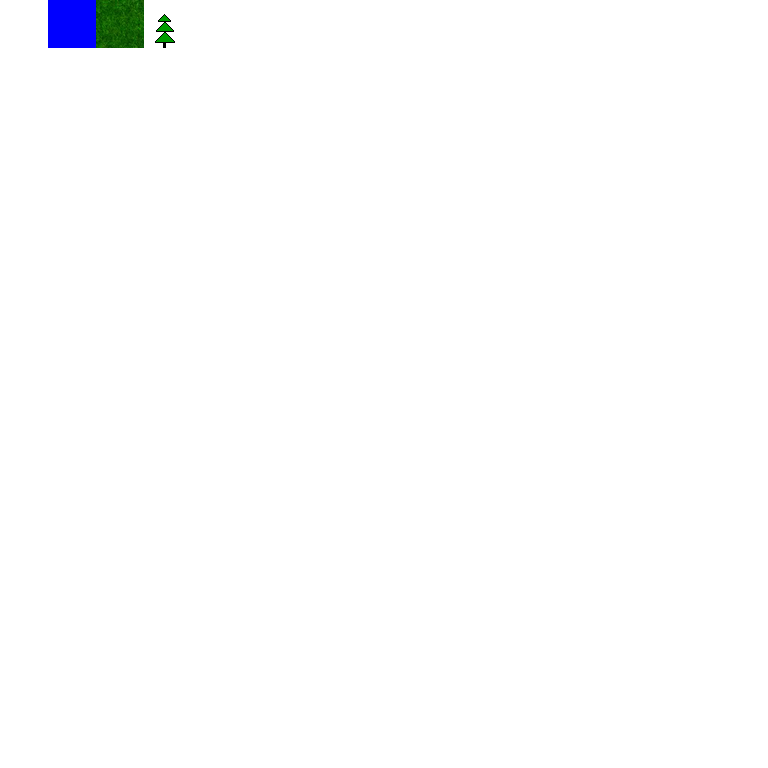
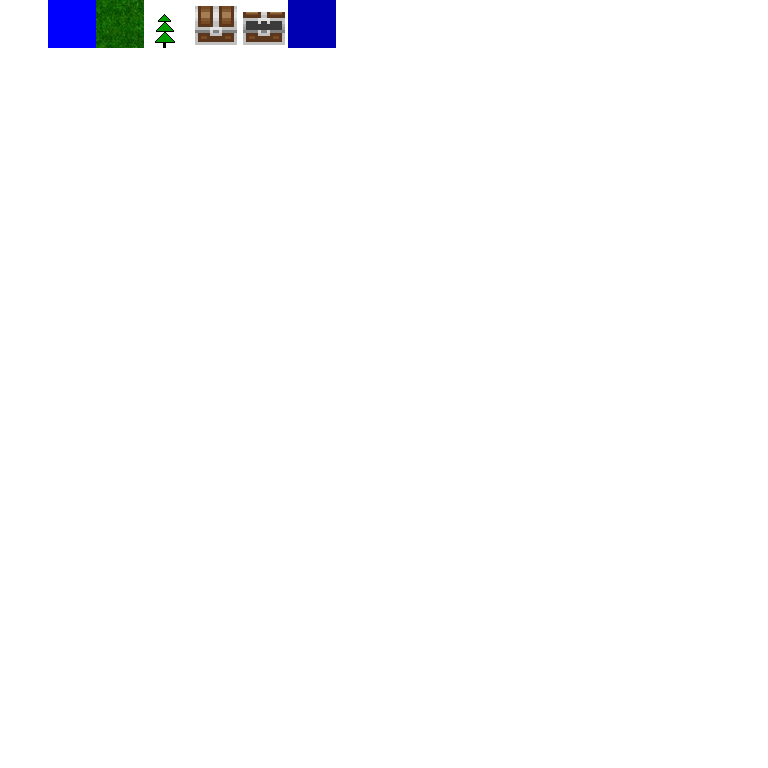
Began work on chests

Changed region(s): [[0.25, 0.0, 0.4375, 0.0625]]

diff --git a/todd/SceneView.cpp b/todd/SceneView.cpp
@@ -10,6 +10,7 @@
 #include <iostream>
 #include "GameState.h"
 #include "GameMenu.h"
+#include "ActiveTile.h"
 
 using namespace std;
 
@@ -19,18 +20,13 @@ struct TileMapping
 {
 	int id;
 	int spriteIndex;
-
-	/**
-	 * The "second" sprite index, if the tile is animated.
-	 */
-	int secondSpriteIndex;
 };
 
 TileMapping tileMappings[] = {
-	{1, 1, 1},			// Grass
-	{2, 2, 2},			// ??? (don't know yet)
-	{3, 3, 3},			// Tree (use in hard layer)
-
+	{1, 1},				// Grass
+	{2, 2},				// ??? (don't know yet)
+	{3, 3},				// Tree (use in hard layer)
+	{4, 0},				// Chest (active tile)
 	// END
 	{0, 0}
 };
@@ -51,15 +47,25 @@ void SceneView::renderLayer(Scene::Tile *layer)
 			if (tile.id == 0) continue;
 			int spriteIndex = 0;
 
-			while (scan->id != 0)
+			ActiveTile *atile = GetActiveTile(tile.id);
+			if (atile != NULL)
 			{
-				if (scan->id == tile.id)
-				{
-					spriteIndex = scan->spriteIndex;
-					break;
-				};
+				void *state = GetTileState(sceneID, x, y, atile);
+				spriteIndex = atile->getTileIndex(state);
+			};
 
-				scan++;
+			if (spriteIndex == 0)
+			{
+				while (scan->id != 0)
+				{
+					if (scan->id == tile.id)
+					{
+						spriteIndex = scan->spriteIndex;
+						break;
+					};
+
+					scan++;
+				};
 			};
 
 			ssTiles->draw(x*48, y*48, spriteIndex);
@@ -125,6 +131,16 @@ void SceneView::handleEvent(SDL_Event *ev)
 				MobState *mob = (MobState*) GetGameData(name, sizeof(MobState));
 				mob->orient = opposite;
 				InteractWithMob(name);
+			}
+			else
+			{
+				int id = scene->hardLayer[(state->y+relY) * scene->width + (state->x+relX)].id;
+				ActiveTile *tile = GetActiveTile(id);
+				if (tile != NULL)
+				{
+					void *tstate = GetTileState(sceneID, state->x+relX, state->y+relY, tile);
+					tile->interact(tstate);
+				};
 			};
 		}
 		else if (ev->key.keysym.sym == SDLK_ESCAPE)

diff --git a/todd/ActiveTile.h b/todd/ActiveTile.h
@@ -1,0 +1,45 @@
+/**
+ * ActiveTile.h
+ * Handles 'active tiles', such as chests.
+ */
+
+#ifndef ACTIVE_TILE_H
+#define ACTIVE_TILE_H
+
+#include <stdlib.h>
+#include <string>
+
+using namespace std;
+
+struct ChestState
+{
+	int id;
+	int amount;
+};
+
+class ActiveTile
+{
+public:
+	/**
+	 * \brief Returns the size of this tile's state structure.
+	 */
+	virtual size_t getStateSize() = 0;
+
+	/**
+	 * \brief Given the tile state structure, return the tile sprite index to use.
+	 */
+	virtual int getTileIndex(void *state) = 0;
+
+	/**
+	 * \brief This is called when the player presses X while facing this tile.
+	 *
+	 * Only works with the hard layer.
+	 */
+	virtual void interact(void *state) = 0;
+};
+
+void InitActiveTiles();
+ActiveTile *GetActiveTile(int id);
+void *GetTileState(int scene, int x, int y, ActiveTile *handler);
+
+#endif

diff --git a/todd/ActiveTile.cpp b/todd/ActiveTile.cpp
@@ -1,0 +1,36 @@
+/**
+ * ActiveTile.cpp
+ * Handles 'active tiles', such as chests.
+ */
+
+#include "ActiveTile.h"
+#include <map>
+#include <sstream>
+#include "GameState.h"
+
+// Include all the active tile classes here.
+#include "TileChest.h"
+
+using namespace std;
+
+map<int, ActiveTile*> activeTileMap;
+
+void InitActiveTiles()
+{
+	activeTileMap[4] = new TileChest;
+};
+
+ActiveTile *GetActiveTile(int id)
+{
+	return activeTileMap[id];
+};
+
+void *GetTileState(int scene, int x, int y, ActiveTile *handler)
+{
+	const char hexd[17] = "0123456789ABCDEF";
+	stringstream ss;
+	ss << "ATI" << hexd[(scene >> 4) & 0xF] << hexd[scene & 0xF]
+		<< hexd[(x >> 4) & 0xF] << hexd[x & 0xF]
+		<< hexd[(y >> 4) & 0xF] << hexd[y & 0xF];
+	return GetGameData(ss.str(), handler->getStateSize());
+};

diff --git a/todd/TileChest.h b/todd/TileChest.h
@@ -1,0 +1,38 @@
+/**
+ * TileChest.h
+ * The 'chest' active tile.
+ */
+
+#include <iostream>
+#include "Character.h"
+
+using namespace std;
+
+class TileChest : public ActiveTile
+{
+public:
+	size_t getStateSize()
+	{
+		return sizeof(ChestState);
+	};
+
+	int getTileIndex(void *state_)
+	{
+		ChestState *state = (ChestState*) state_;
+		if (state->id == 0) return 5;
+		else return 4;
+	};
+
+	void interact(void *state_)
+	{
+		ChestState *state = (ChestState*) state_;
+		if (state->id != 0)
+		{
+			ItemStack istack;
+			istack.id = state->id;
+			istack.amount = state->amount;
+			state->id = state->amount = 0;
+			GetChar("CHRTODD")->getInventory()->pushStack(istack);
+		};
+	};
+};

diff --git a/todd/GameState.cpp b/todd/GameState.cpp
@@ -14,6 +14,7 @@
 #include "Scene.h"
 #include "Character.h"
 #include "Item.h"
+#include "ActiveTile.h"
 
 #ifdef _WIN32
 #include <windows.h>
@@ -50,6 +51,13 @@ struct GameStateSegment
 
 map<string, GameStateSegment> gameState;
 
+void InitChest(int scene, int x, int y, int id, int amount = 1)
+{
+	ChestState *state = (ChestState*) GetTileState(scene, x, y, GetActiveTile(4));
+	state->id = id;
+	state->amount = amount;
+};
+
 void NewGame()
 {
 	SetPartyMember(0, "CHRTODD");
@@ -82,6 +90,9 @@ void NewGame()
 	mobFeminist->y = 4;
 	mobFeminist->orient = Mob::LEFT;
 	mobFeminist->sceneID = 0;
+
+	// Chests
+	InitChest(0, 8, 1, 1, 10);
 };
 
 string GetPathToSaveSlot(int slot)

diff --git a/todd/Container.cpp b/todd/Container.cpp
@@ -48,3 +48,37 @@ void Container::drawSlot(int x, int y, int index, bool sel)
 		text.draw(x+12, y+16);
 	};
 };
+
+void Container::pushStack(ItemStack stack, int min)
+{
+	Item *item = GetItem(stack.id);
+	if (!item->isStackable())
+	{
+		int i;
+		for (i=min; i<getSize(); i++)
+		{
+			ItemStack stk = get(i);
+			if (stk.id == 0)
+			{
+				set(i, stack);
+			};
+		};
+	}
+	else
+	{
+		while (stack.amount != 0)
+		{
+			int i;
+			for (i=min; i<getSize(); i++)
+			{
+				ItemStack stk = get(i);
+				if ((stk.id == stack.id) && (stk.amount < 64) && (stack.amount > 0))
+				{
+					stk.amount++;
+					stack.amount--;
+					set(i, stk);
+				};
+			};
+		};
+	};
+};

diff --git a/todd/Container.h b/todd/Container.h
@@ -46,6 +46,11 @@ public:
 	 * Draw a container slot.
 	 */
 	void drawSlot(int x, int y, int index, bool sel = false);
+
+	/**
+	 * Pushes an itemstack into the best-fitting places in this container.
+	 */
+	void pushStack(ItemStack stack, int min = 10);
 };
 
 #endif

diff --git a/todd/Todd.cpp b/todd/Todd.cpp
@@ -18,6 +18,7 @@
 #include "Text.h"
 #include "MainMenu.h"
 #include "Item.h"
+#include "ActiveTile.h"
 
 using namespace std;
 
@@ -113,6 +114,7 @@ int main()
 
 	InitMobs();
 	InitItems();
+	InitActiveTiles();
 	Text::Init();
 
 	Scene::LoadScenes();

diff --git a/todd/Item.h b/todd/Item.h
@@ -40,6 +40,11 @@ public:
 	 * Return a description of the item.
 	 */
 	virtual string getDesc() = 0;
+
+	/**
+	 * Return true if this item is stackable.
+	 */
+	virtual bool isStackable() = 0;
 };
 
 struct ItemStack

diff --git a/todd/ItemPotion.h b/todd/ItemPotion.h
@@ -26,4 +26,9 @@ public:
 	{
 		return "A simple remedy, which restores 100HP.";
 	};
+
+	virtual bool isStackable()
+	{
+		return true;
+	};
 };
